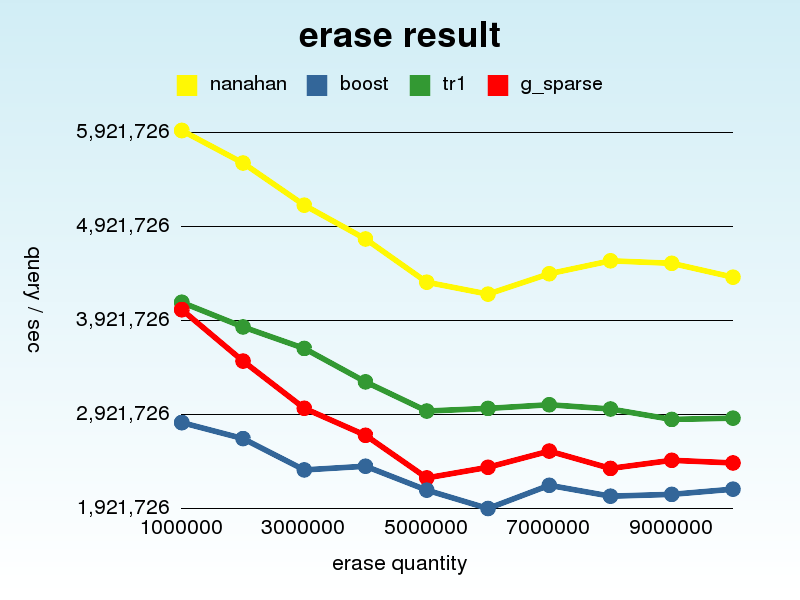
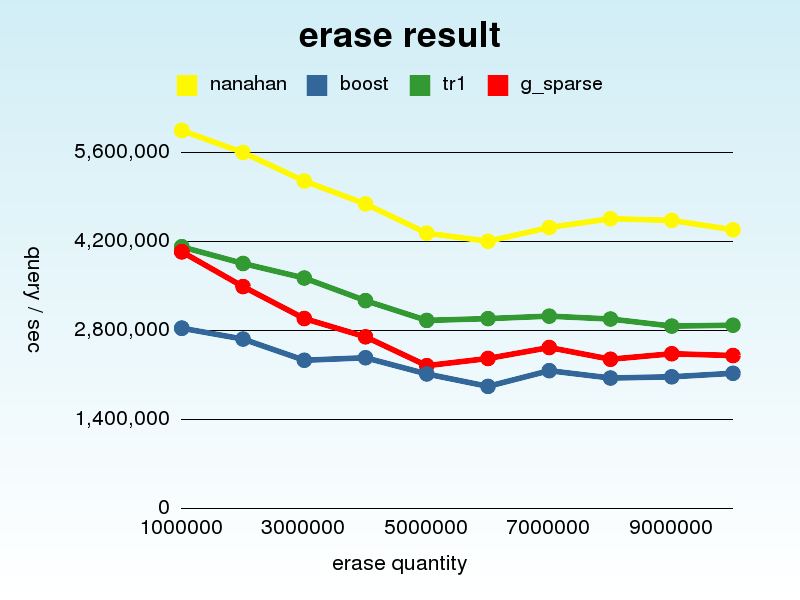
move graph offset to zero :P

diff --git a/map/graph.rb b/map/graph.rb
@@ -61,12 +61,22 @@ require 'gruff'
 def save_graph result,work
   g = Gruff::Line.new "800x600"
   g.theme_37signals
+
   g.title = "#{work} result"
   target = result[work]
   target.each{ |k,v|
     g.data(k,
            v.map{|k,v| v[:avg]})
   }
+  g.minimum_value = 0
+  target.each{ |k,v|
+    v.each{ |key, value|
+      while g.maximum_value < value[:avg]
+        g.maximum_value += 25000000
+      end
+    }
+  }
+
   g.y_axis_label = "query / sec"
   g.x_axis_label = "#{work} quantity"
 
